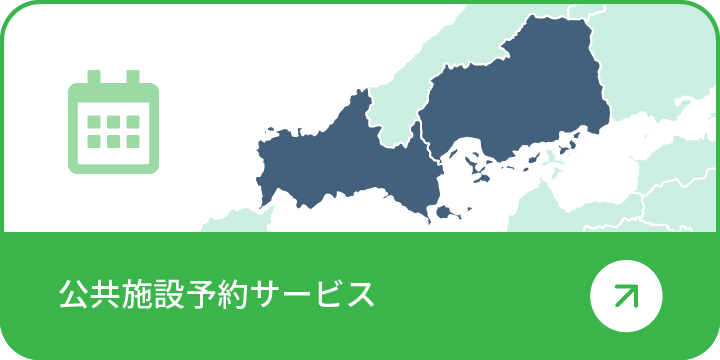
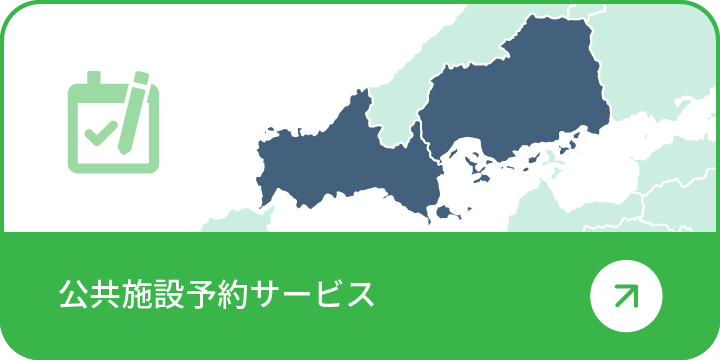
アイコン変更

Changed region(s): [[0.0917, 0.1833, 0.2139, 0.4583], [0.0917, 0.2139, 0.1222, 0.2444]]

diff --git a/index.html b/index.html
@@ -212,7 +212,8 @@
             <li><a href="#" class="header__submenu-link">ミズノテニススクール</a></li>
           </ul>
           <a href="event.html" class="header__menu header__menu--event">イベント</a>
-          <a href="https://yoyacool.e-harp.jp/facility/" target="_blank" rel="noopener" class="header__menu header__menu--event">施設予約</a>
+          <a href="https://yoyacool.e-harp.jp/facility/" target="_blank" rel="noopener"
+            class="header__menu header__menu--booking">施設予約</a>
         </div>
       </nav>
       <div class="header__search" id="header-search-js">
@@ -441,7 +442,7 @@
           src="assets/img/top/top-howto-bnr02.png" alt="各種申請書"></a>
       <a href="applications.html" class="top-howto-bnr__item fade-in-js fade-up fade-delay-3"><img
           src="assets/img/top/top-howto-bnr03.png" alt="助成事業"></a>
-                <a href="camp.html" class="top-howto-bnr__item fade-in-js fade-up fade-delay-3"><img
+      <a href="camp.html" class="top-howto-bnr__item fade-in-js fade-up fade-delay-3"><img
           src="assets/img/top/top-howto-bnr04.png" alt="スポーツ合宿"></a>
     </section>
 
@@ -546,7 +547,6 @@
       </div>
     </section>
 
-
     <!-- 施設利用について -->
     <section class="top-sns">
       <h2 class="top-section-ttl top-sns__ttl fade-in-js fade-up">SNS<span>Social Networking Service</span></h2>
@@ -578,14 +578,12 @@
         </div>
       </div>
     </section>
-
   </div>
   <!--main end-->
 
   <footer class="footer">
     <div class="footer__inner">
       <a href="index.html" class="footer__logo"><img src="assets/img/top/logo.png" alt="宇部市スポーツ協会"></a>
-
       <div class="footer__top">
         <div class="footer__top-left">
           <div class="footer__top-left-item">〒755-0023 山口県宇部市恩田町四丁目1番4号</div>
@@ -630,8 +628,7 @@
             <li class="footer__menu-list-item"><a href="facilities-single.html">アーチェリー・弓道</a></li>
             <li class="footer__menu-list-item"><a href="facilities-single.html">アーバンスポーツ</a></li>
             <li class="footer__menu-list-item"><a href="facilities-single.html">会議室</a></li>
-            <li class="footer__menu-list-item"><a href="facility-flow.html"
-                target="_blank">施設の利用予約〜利用までの流れ</a></li>
+            <li class="footer__menu-list-item"><a href="facility-flow.html" target="_blank">施設の利用予約〜利用までの流れ</a></li>
             <li class="footer__menu-list-item"><a href="online-reservation.html">インターネット予約の利用について</a></li>
             <li class="footer__menu-list-item"><a href="https://yoyacool.e-harp.jp/facility/" target="_blank"
                 rel="noopener">ひろしま・やまぐち公共施設予約サービス</a></li>

diff --git a/assets/css/style.scss b/assets/css/style.scss
@@ -211,6 +211,12 @@ header
         content: url(../img/top/header-menu-icon04.png);
       }
     }
+
+    &--booking {
+      &::before {
+        content: url(../img/top/header-menu-icon05.png);
+      }
+    }
   }
 
   //  下層メニュー（アコーディオン）

diff --git a/assets/css/style.css b/assets/css/style.css
@@ -3017,6 +3017,9 @@ header
 .header__menu--event::before {
   content: url(../img/top/header-menu-icon04.png);
 }
+.header__menu--booking::before {
+  content: url(../img/top/header-menu-icon05.png);
+}
 .header__submenu {
   display: none;
   position: absolute;
